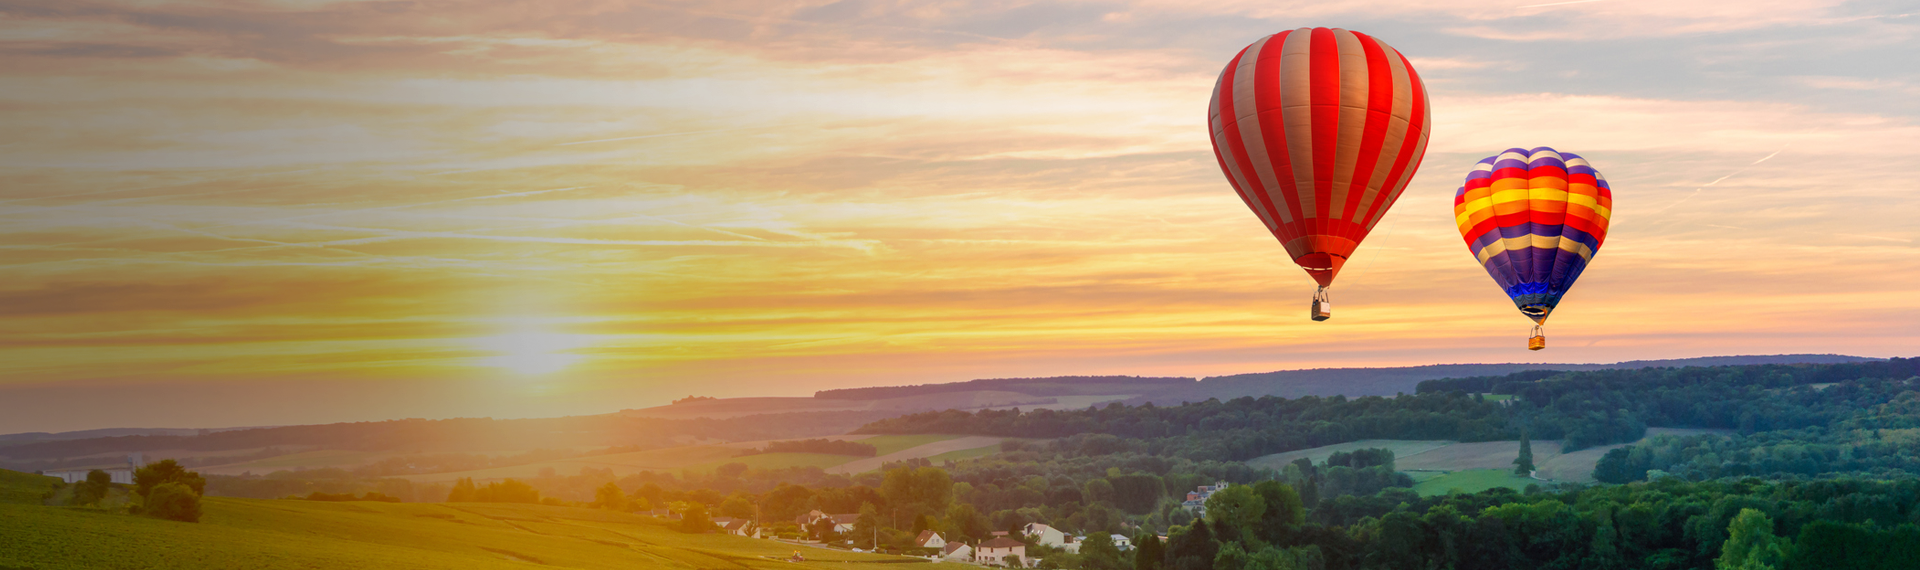
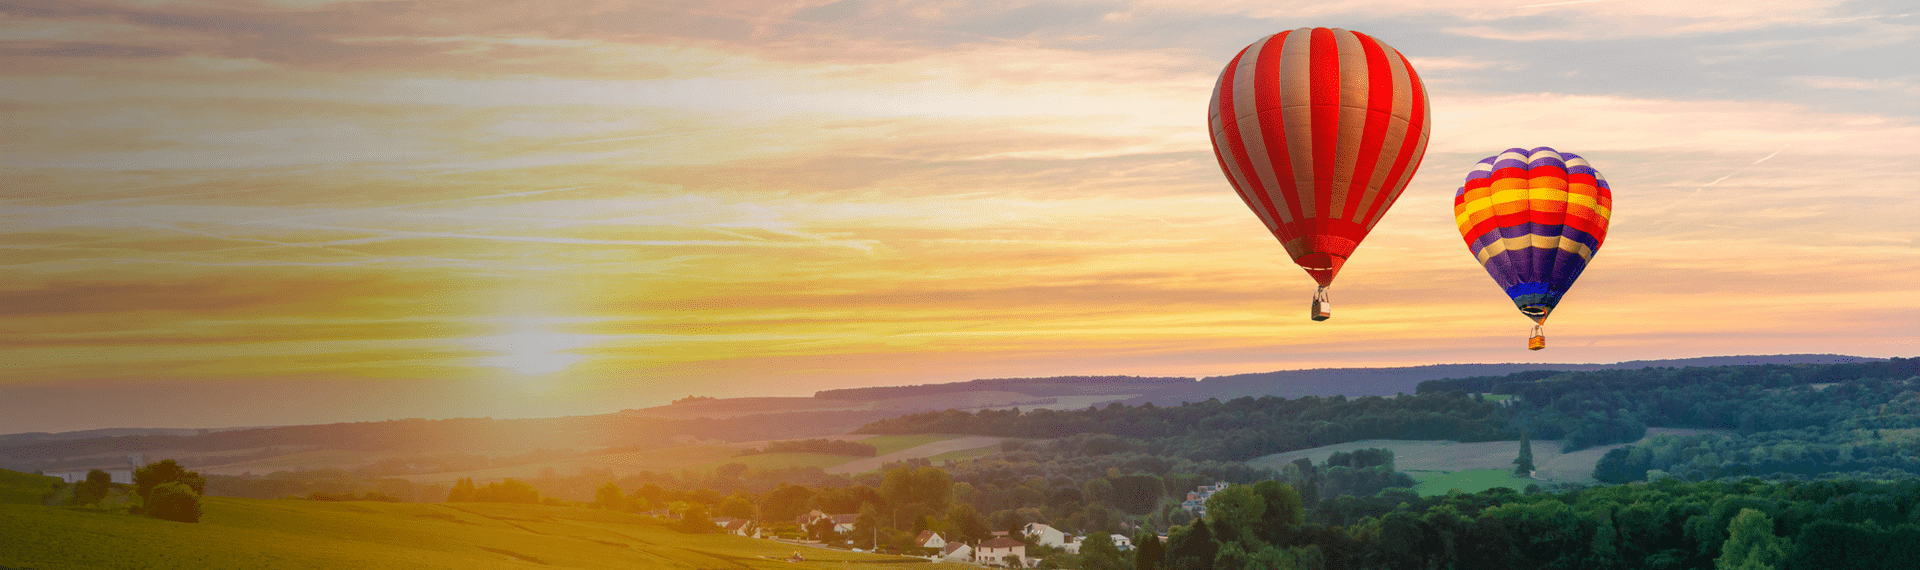
imaging improvements to test on staging

diff --git a/react/components/hero/static_hero_image.jsx b/react/components/hero/static_hero_image.jsx
@@ -1,13 +1,15 @@
 import React from 'react';
+import AboutImage from "./about_image.svg";
 
 class StaticHeroImage extends React.Component {
   constructor() {
     super();
   }
 
+  // TODO DEPRECATE
   setBackground(url) {
     if (url.length) {
-      return { 'backgroundImage': `url(${url})` }
+      return { 'backgroundImage': `url(./about_image.svg)` }
     } else {
       return { 'backgroundImage': `linear-gradient(to right top, #7accca, #5ca5a4, #40807f)` }
     }
@@ -16,8 +18,8 @@ class StaticHeroImage extends React.Component {
   //special styling for Vision Obstacles Execution graphic
   render() {
     return (
-      <section className="hero__container-image vision-obstacles-execution"
-        style={this.setBackground(this.props.imageURL)}>
+      <section className="hero__container-image vision-obstacles-execution">
+          <img src={AboutImage} alt="Athira About Image" />
       </section >
     )
   }

diff --git a/webpack.config.js b/webpack.config.js
@@ -45,8 +45,8 @@ module.exports = {
             }
         },
         {
-            test: /\.(jpe?g|png|gif|svg)$/i,
-            type: 'asset/inline'
+            test: /\.(png|jp(e*)g|svg|gif)$/,
+            type: 'asset/resource'
         }
         ]
     },

diff --git a/README.md b/README.md
@@ -55,9 +55,17 @@ Debugging of React and JavaScript issue should be done in the browser console wi
 Encrypted keys and the like are stored locally using this setup:
 https://itnext.io/environment-variables-in-ruby-on-rails-17e4934cfd71
 
-Heroku keys are stored at the same environment variables.
+Heroku keys are stored at the same environment variables. Within the Heroku environments, customization of environment variables can be accomplised by following this guide:
+https://devcenter.heroku.com/articles/config-vars
+
+Some of the environment variables are set automatically when configuring a Heroku add-on or rolling the keys via the add-on service UI online. In such cases, the environment variables will be automatically reset, but it may be necessary to reseed the database using the seeds.rb file in order to have the desired attachmened stored with the correct credentials. After rolling the keys, redeploy the rails app and then run:
+
+`heroku run rails db:seed -a <athira-solutions|athira-solutions-staging>`
 
 ## Active Storage Configurations
 
 Active  Storage is used for direct storage and upload of images for the site. This configuration guide was used to set it up:
 https://devcenter.heroku.com/articles/active-storage-on-heroku
+
+The active storage keys required for S3 service are automatically set based on the Bucketeer configurations in the Heroku app environments (athira-solutions and athira-solution-staging). Local environment variables are stored using the set-up linked in the Sensitive Data Management section. Within the Heroku environments, customization of S3 service environment variables can be accomplised by following this guide:
+https://devcenter.heroku.com/articles/config-vars
